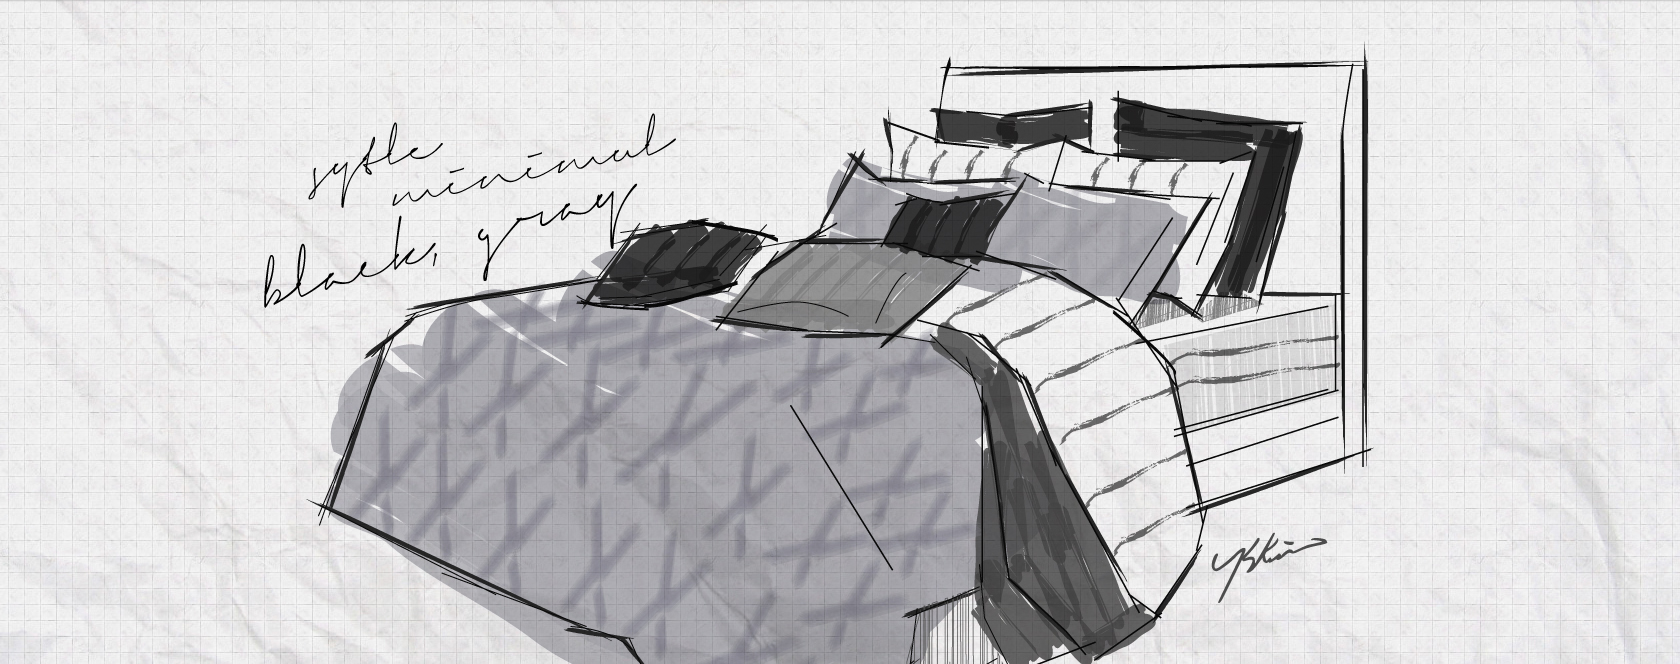
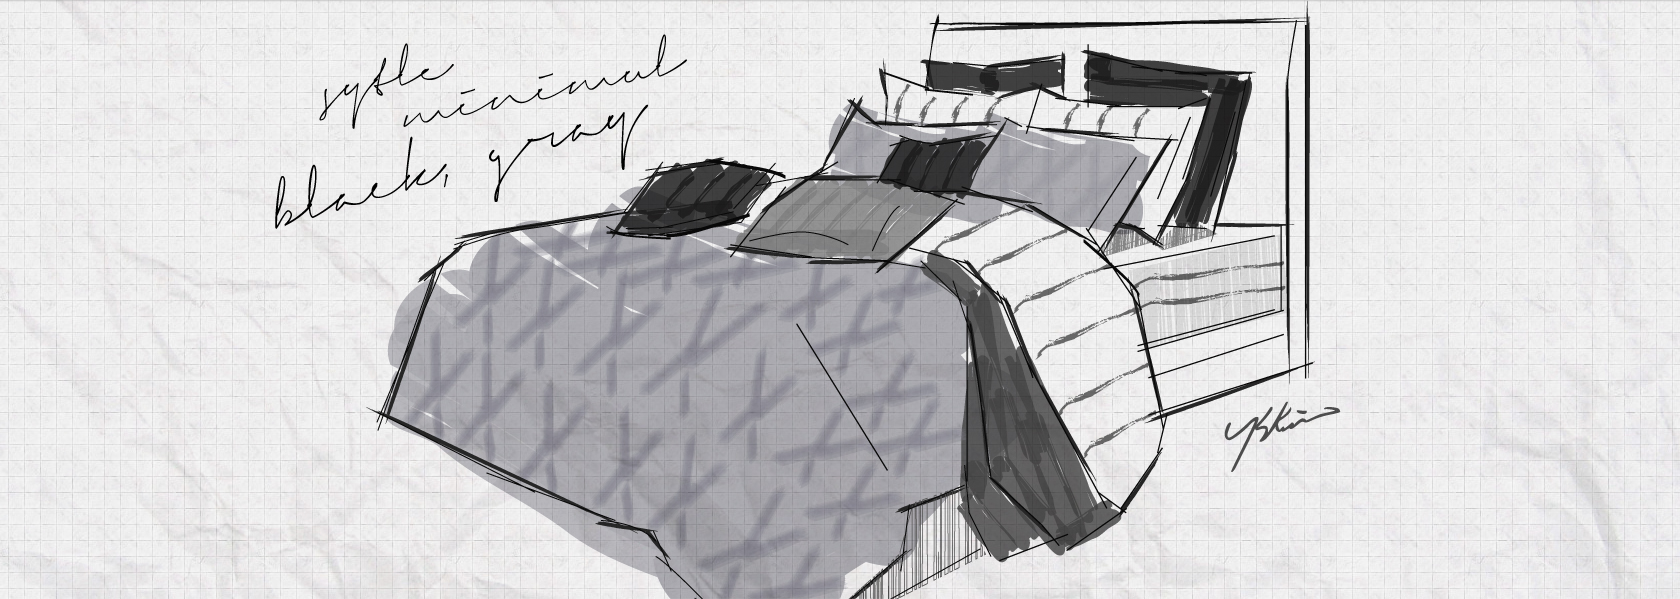
이미지 변경

diff --git a/app/assets/stylesheets/event.css.scss b/app/assets/stylesheets/event.css.scss
@@ -4,8 +4,8 @@
 
 .imageslider, .imageslider .images {
     margin:0 auto;
-    width: 1920px;
-    height: 664px;
+    width: 1680px;
+    height: 599px;
     position: relative;
     overflow-y: hidden;
     overflow-x: hidden;
